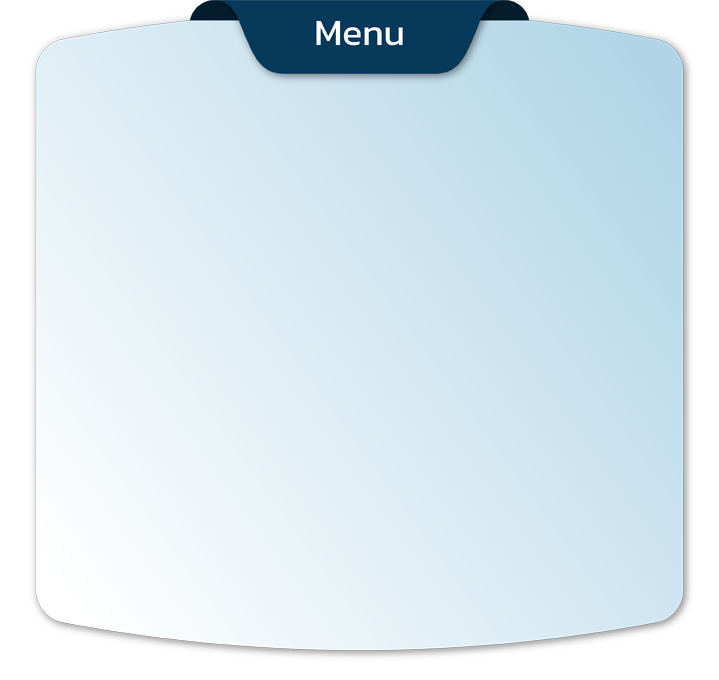
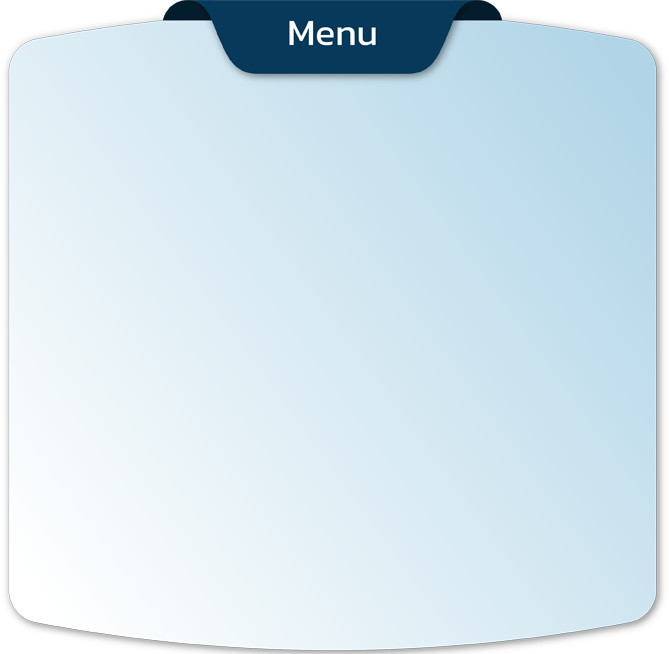
fix home ui menu

diff --git a/lib/views/home_screen.dart b/lib/views/home_screen.dart
@@ -8,6 +8,7 @@ import 'package:workcheckin/views/history_screen.dart';
 import 'package:workcheckin/views/noti_boss_screen.dart';
 import 'package:workcheckin/views/profile_screen.dart';
 import 'package:workcheckin/views/signin_screen.dart';
+import 'package:workcheckin/models/size_config.dart';
 import 'leave_screen.dart';
 
 final _kanit = 'Kanit';
@@ -80,6 +81,9 @@ class _HomeScreenState extends State<HomeScreen> {
 
   @override
   Widget build(BuildContext context) {
+    SizeConfig().init(context);
+    var sizeHor = SizeConfig.safeBlockHorizontal;
+    var sizeVer = SizeConfig.safeBlockVertical;
     return SafeArea(
       child: Scaffold(
         body: Stack(
@@ -96,9 +100,10 @@ class _HomeScreenState extends State<HomeScreen> {
             ),
             SingleChildScrollView(
               child: Column(
+                mainAxisAlignment: MainAxisAlignment.start,
                 children: <Widget>[
                   Container(
-                    height: MediaQuery.of(context).size.height / 22.0,
+                    height: sizeVer * 5.8,
                     width: MediaQuery.of(context).size.width,
                     decoration: BoxDecoration(
                       color: Color(0xff07395A),
@@ -108,157 +113,125 @@ class _HomeScreenState extends State<HomeScreen> {
                       alignment: Alignment.topRight,
                     ),
                   ),
-                  Padding(
-                    padding: EdgeInsets.symmetric(
-                        vertical: MediaQuery.of(context).size.height / 30.0),
-                    child: Row(
-                      mainAxisAlignment: MainAxisAlignment.center,
-                      children: <Widget>[
-                        GestureDetector(
-                          onTap: _notiBoss,
-                          child: Container(
-                            width: 100.0,
-                            height: 100.0,
-                            decoration: BoxDecoration(
-                              image: DecorationImage(
-                                image: AssetImage('assets/images/noti.png'),
-                              ),
-                            ),
-                          ),
+                  Row(
+                    crossAxisAlignment: CrossAxisAlignment.center,
+                    mainAxisAlignment: MainAxisAlignment.center,
+                    children: <Widget>[
+                      InkWell(
+                        onTap: _notiBoss,
+                        child: Image.asset(
+                          'assets/images/noti.png',
+                          width: sizeHor * 30,
                         ),
-                        SizedBox(
-                            width: MediaQuery.of(context).size.width / 4.0),
-                        GestureDetector(
-                          onTap: _logout,
-                          child: Container(
-                            width: 100.0,
-                            height: 100.0,
-                            decoration: BoxDecoration(
-                              image: DecorationImage(
-                                image: AssetImage('assets/images/logout.png'),
-                              ),
-                            ),
-                          ),
-                        ),
-                      ],
-                    ),
-                  ),
-                  Container(
-                    width: MediaQuery.of(context).size.width / 1.1,
-                    height: MediaQuery.of(context).size.height / 2.2,
-                    decoration: BoxDecoration(
-                      image: DecorationImage(
-                        image: AssetImage('assets/images/card-menu.png'),
-                        fit: BoxFit.cover,
                       ),
-                    ),
-                    child: SingleChildScrollView(
-                      child: Column(
+                      SizedBox(width: sizeHor * 4),
+                      InkWell(
+                        onTap: _logout,
+                        child: Image.asset(
+                          'assets/images/logout.png',
+                          width: sizeHor * 30,
+                        ),
+                      ),
+                    ],
+                  ),
+                  Stack(
+                    alignment: Alignment.center,
+                    children: <Widget>[
+                      Image.asset(
+                        'assets/images/card-menu.png',
+                        width: sizeHor * 90,
+                        height: sizeVer * 60,
+                        filterQuality: FilterQuality.high,
+                        excludeFromSemantics: true,
+                        fit: BoxFit.fill,
+                      ),
+                      Column(
+                        mainAxisAlignment: MainAxisAlignment.center,
+                        crossAxisAlignment: CrossAxisAlignment.center,
                         children: <Widget>[
                           Row(
-                            mainAxisAlignment: MainAxisAlignment.spaceBetween,
+                            crossAxisAlignment: CrossAxisAlignment.center,
+                            mainAxisAlignment: MainAxisAlignment.center,
                             children: <Widget>[
-                              Padding(
-                                padding:
-                                    const EdgeInsets.only(top: 60, left: 50),
-                                child: GestureDetector(
-                                  onTap: _employee,
-                                  child: Container(
-                                    width: 80,
-                                    height: 80,
-                                    decoration: BoxDecoration(
-                                      image: DecorationImage(
-                                        image: AssetImage(
-                                            'assets/images/check.png'),
-                                      ),
-                                    ),
-                                  ),
+                              InkWell(
+                                onTap: _employee,
+                                child: Image.asset(
+                                  'assets/images/check.png',
+                                  width: sizeHor * 30,
                                 ),
                               ),
-                              Padding(
-                                padding:
-                                    const EdgeInsets.only(top: 60, right: 50),
-                                child: GestureDetector(
-                                  onTap: _historyCheckin,
-                                  child: Container(
-                                    width: 80,
-                                    height: 80,
-                                    decoration: BoxDecoration(
-                                      image: DecorationImage(
-                                        image: AssetImage(
-                                            'assets/images/his-time.png'),
-                                      ),
-                                    ),
-                                  ),
+                              SizedBox(width: sizeHor * 4),
+                              InkWell(
+                                onTap: _historyCheckin,
+                                child: Image.asset(
+                                  'assets/images/his-time.png',
+                                  width: sizeHor * 30,
                                 ),
                               ),
                             ],
                           ),
-                          Padding(
-                            padding: const EdgeInsets.only(left: 50, right: 50),
-                            child: Row(
-                              mainAxisAlignment: MainAxisAlignment.spaceBetween,
-                              children: <Widget>[
-                                GestureDetector(
-                                  onTap: _leave,
-                                  child: Container(
-                                    width: 80,
-                                    height: 80,
-                                    decoration: BoxDecoration(
-                                      image: DecorationImage(
-                                        image: AssetImage(
-                                            'assets/images/leave.png'),
-                                      ),
-                                    ),
-                                  ),
-                                ),
-                                GestureDetector(
-                                  onTap: _history,
-                                  child: Container(
-                                    width: 80,
-                                    height: 80,
-                                    decoration: BoxDecoration(
-                                      image: DecorationImage(
-                                        image: AssetImage(
-                                            'assets/images/his-leave.png'),
-                                      ),
-                                    ),
-                                  ),
-                                ),
-                              ],
-                            ),
-                          ),
-                          GestureDetector(
-                            onTap: _showProfile,
-                            child: Container(
-                              width: 80,
-                              height: 80,
-                              decoration: BoxDecoration(
-                                image: DecorationImage(
-                                  image: AssetImage('assets/images/pro.png'),
+                          SizedBox(height: sizeVer * 4),
+                          Row(
+                            crossAxisAlignment: CrossAxisAlignment.center,
+                            mainAxisAlignment: MainAxisAlignment.center,
+                            children: <Widget>[
+                              InkWell(
+                                onTap: _leave,
+                                child: Image.asset(
+                                  'assets/images/leave.png',
+                                  width: sizeHor * 30,
                                 ),
                               ),
+                              SizedBox(width: sizeHor * 4),
+                              InkWell(
+                                onTap: _history,
+                                child: Image.asset(
+                                  'assets/images/his-leave.png',
+                                  width: sizeHor * 30,
+                                ),
+                              ),
+                            ],
+                          ),
+                          SizedBox(height: sizeVer * 4),
+                          InkWell(
+                            onTap: _showProfile,
+                            child: Image.asset(
+                              'assets/images/pro.png',
+                              width: sizeHor * 30,
                             ),
                           ),
                         ],
                       ),
-                    ),
+                    ],
                   ),
-                  GestureDetector(
-                    onTap: _bossLeave,
-                    child: Container(
-                      height: MediaQuery.of(context).size.height / 3.15,
-                      width: MediaQuery.of(context).size.width,
-                      decoration: BoxDecoration(
-                        image: DecorationImage(
-                          image: AssetImage('assets/images/boss-menu.png'),
+                  SizedBox(height: sizeVer * 3),
+                  Stack(
+                    alignment: Alignment.center,
+                    children: <Widget>[
+                      Image.asset(
+                        'assets/images/boss-card.png',
+                        width: sizeHor * 90,
+                        height: sizeVer * 30,
+                        filterQuality: FilterQuality.high,
+                        excludeFromSemantics: true,
+                        fit: BoxFit.fill,
+                      ),
+                      Padding(
+                        padding: EdgeInsets.only(top: sizeVer * 4),
+                        child: InkWell(
+                          onTap: _bossLeave,
+                          child: Image.asset(
+                            'assets/images/report.png',
+                            width: sizeHor * 32,
+                            filterQuality: FilterQuality.high,
+                            excludeFromSemantics: true,
+                            fit: BoxFit.fill,
+                          ),
                         ),
                       ),
-                      child: Column(
-                        children: <Widget>[],
-                      ),
-                    ),
+                    ],
                   ),
+                  SizedBox(height: sizeVer * 4),
                 ],
               ),
             ),
